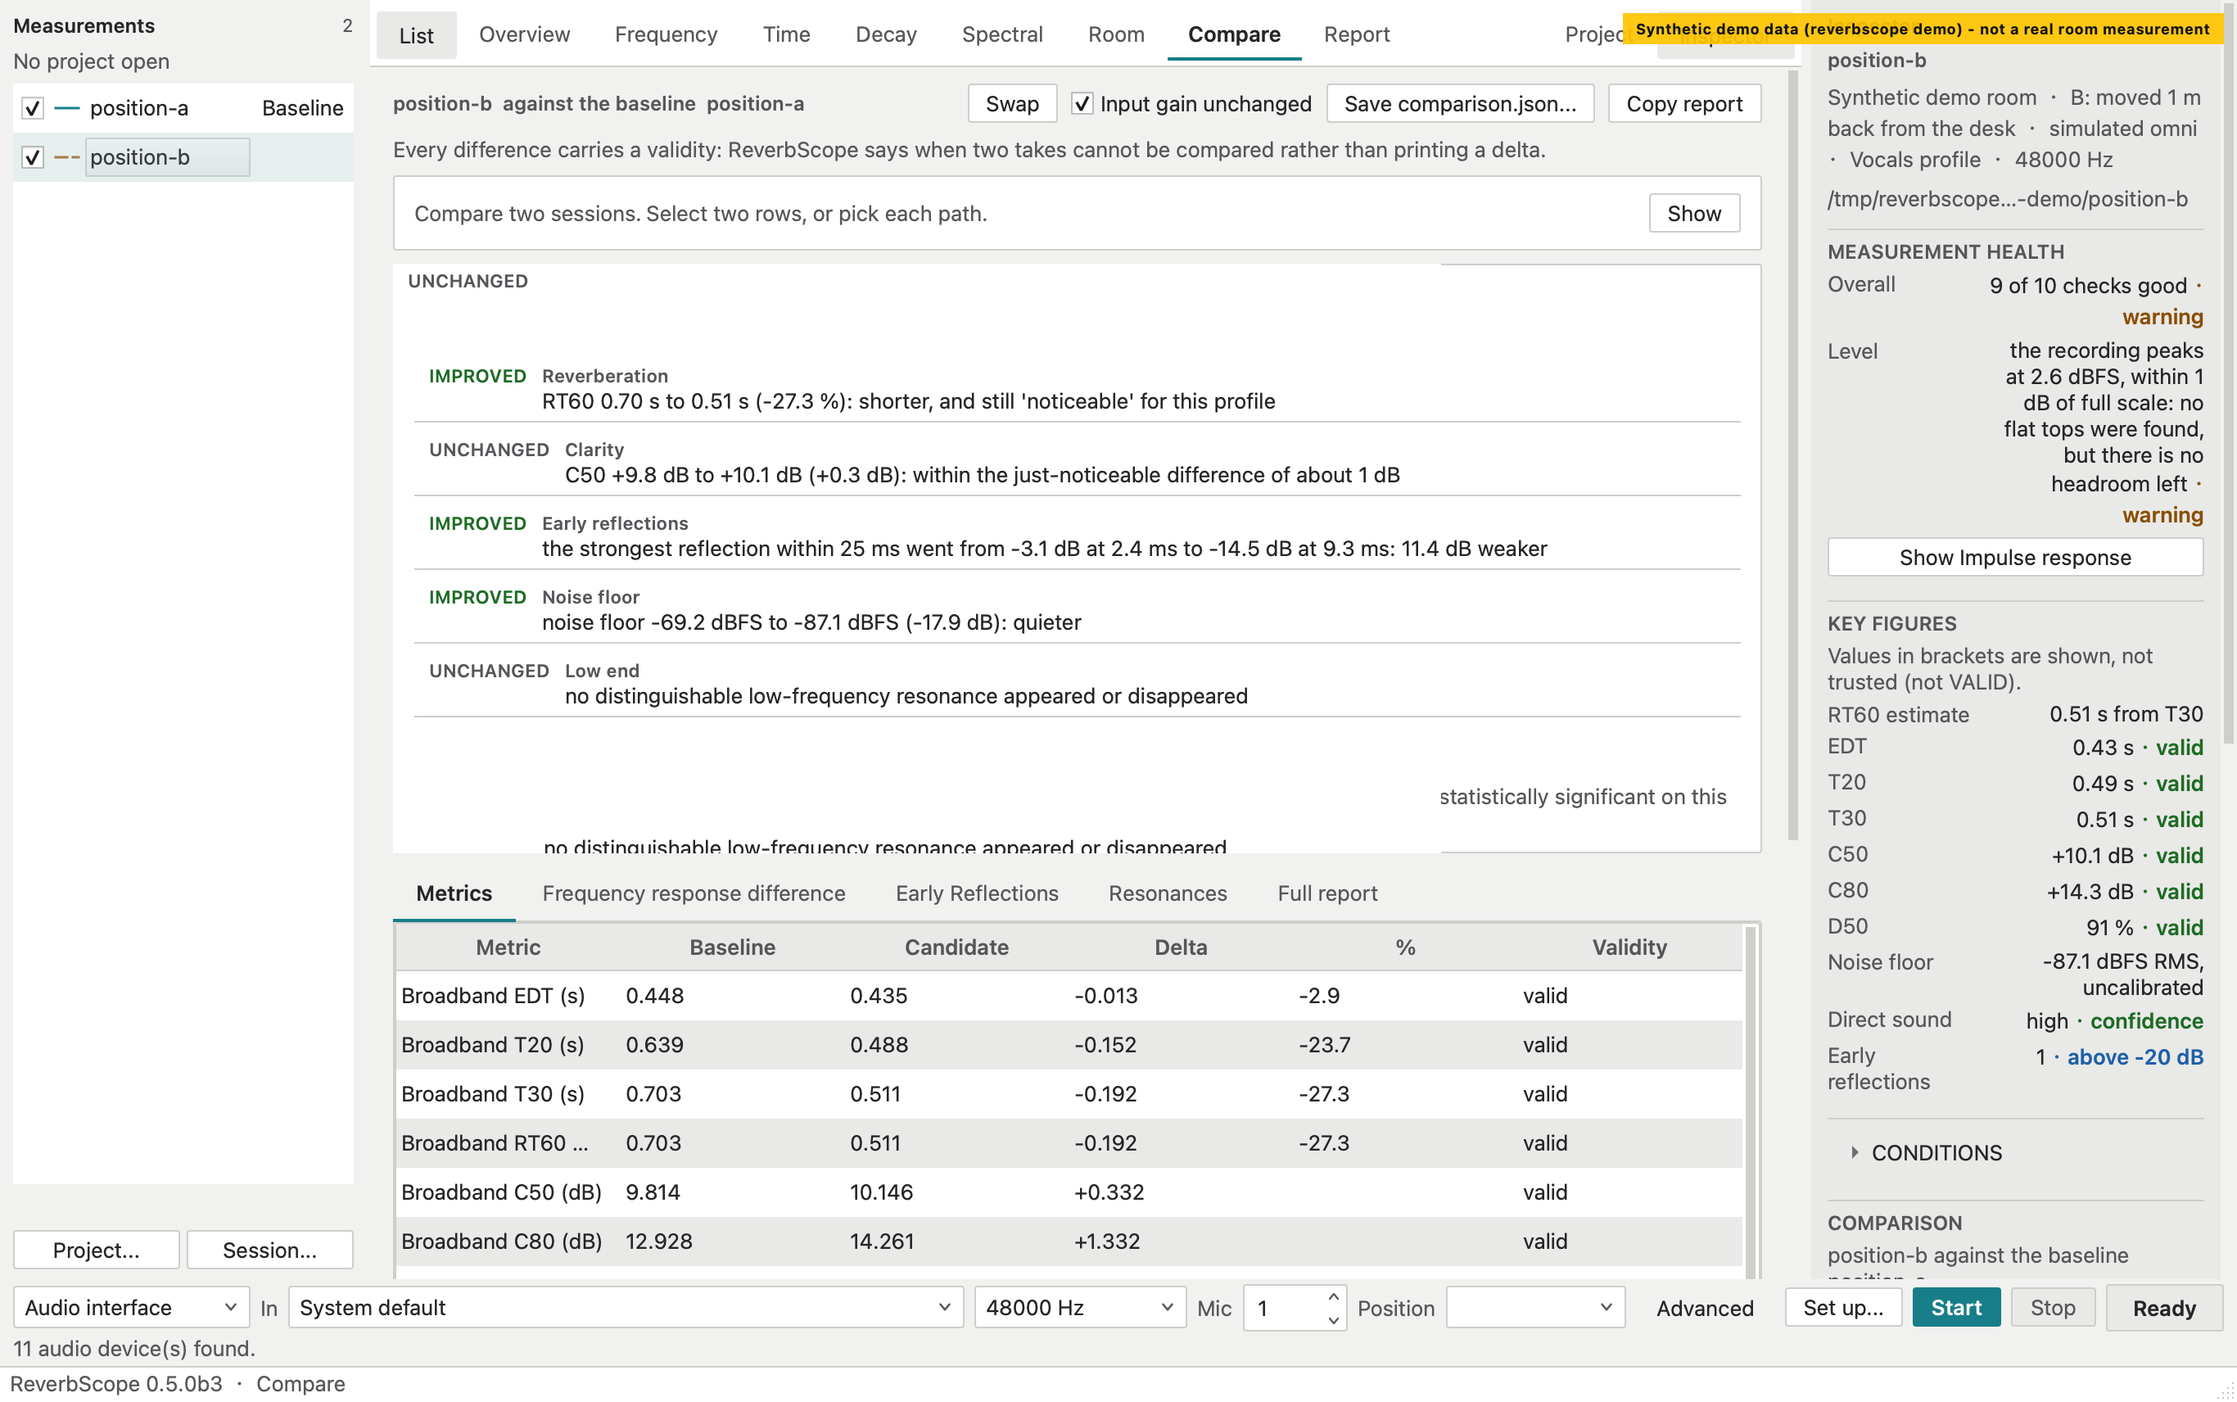
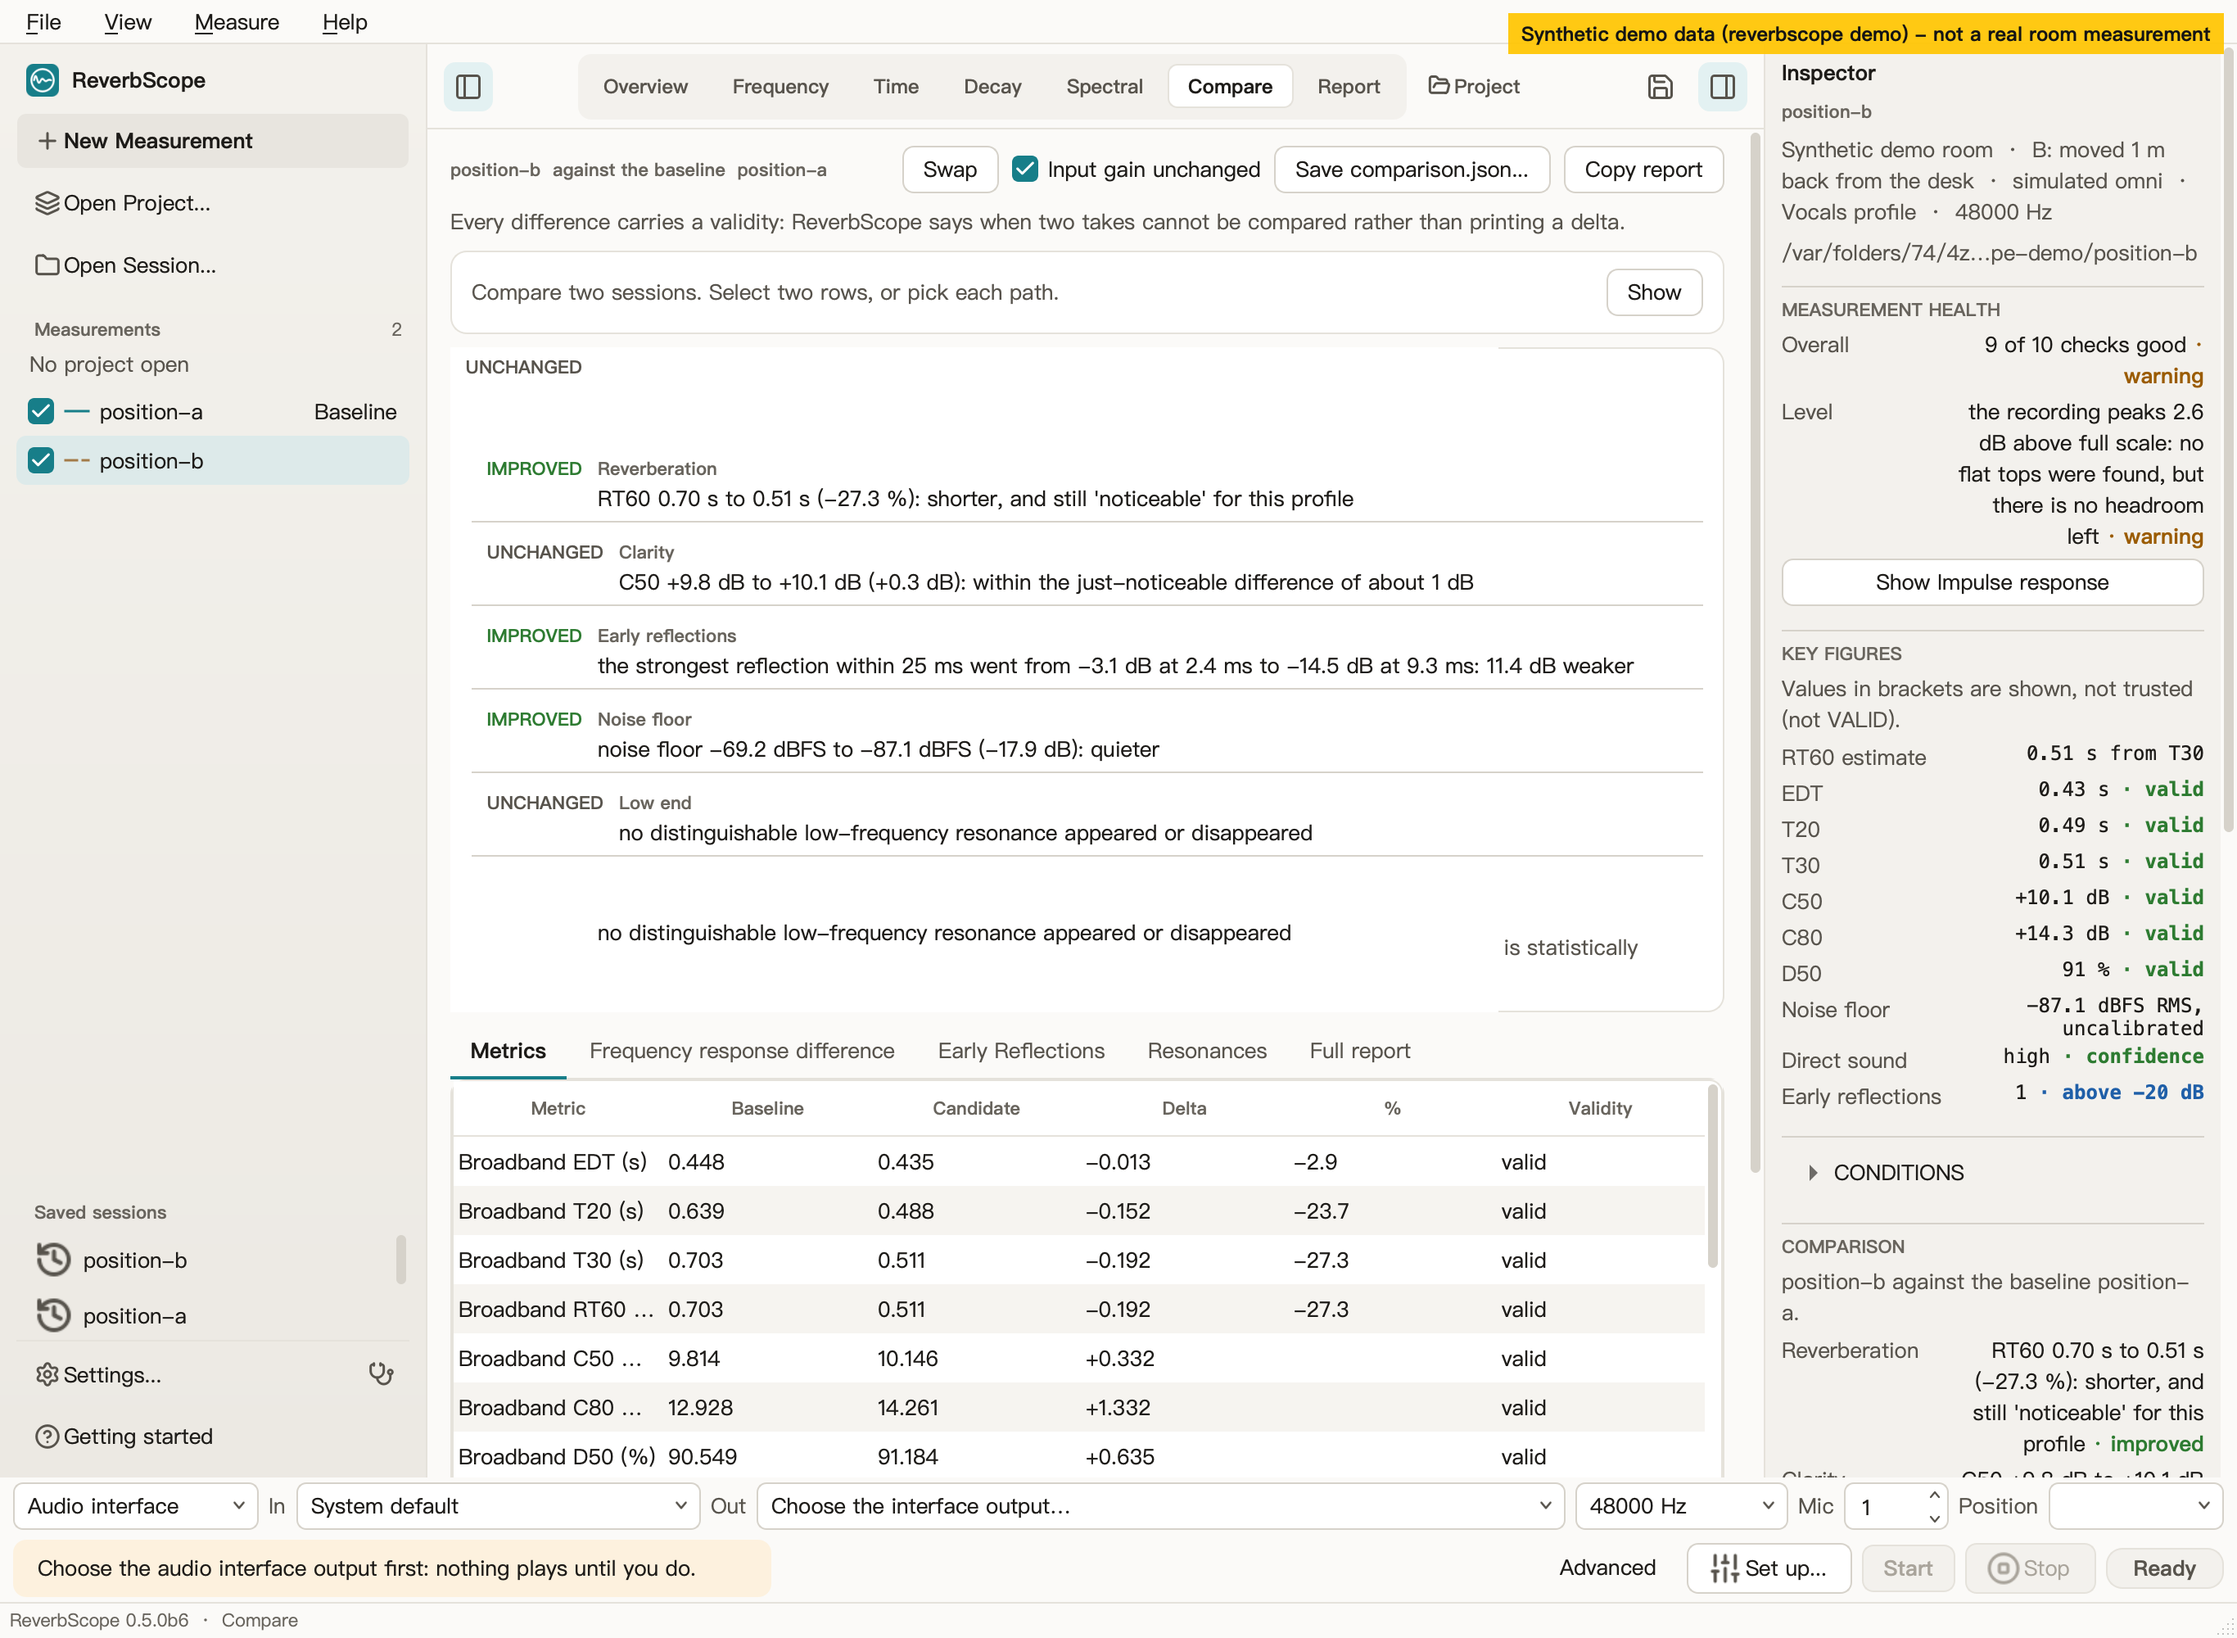
Refresh the READMEs and screenshots for 0.5.0b6
Retake the GUI screenshots from the light sidebar window, name the version
in the captions, add a "New in 0.5.0b6" list and a "Using the desktop app"
section, and rename the "Try it in 30 seconds" heading to "Try the demo":
the page cannot promise a time. The README structure test follows the new
heading.

Assisted-by: Claude Code

diff --git a/tests/unit/test_release_notes.py b/tests/unit/test_release_notes.py
@@ -223,7 +223,7 @@ def test_readme_shows_both_editions_before_anything_else(name: str) -> None:
     desktop = text.index("### 🖥 ")
     terminal = text.index("### ⌨ ")
     compare = text.index("### 该选哪个？" if zh else "### Which one?")
-    demo = text.index("## 30 秒体验" if zh else "## Try it in 30 seconds")
+    demo = text.index("## 先试试演示" if zh else "## Try the demo")
     first_section = text.index("\n## ")
     assert first_section < desktop < terminal < compare < demo
     # Every download of each edition is in its own table.

diff --git a/README.md b/README.md
@@ -19,9 +19,20 @@ unvalidated. [Help test it](#help-test-it).
 
 ![ReverbScope desktop workstation showing the overview of one microphone position: reverberation, background noise, early reflections and direct sound, with the measurement health and the inspector beside it (synthetic demo data)](docs/images/gui-results.png)
 
-<sub>The desktop workstation (`main`, 0.5.0b3) on the built-in simulated room.
-Synthetic demo data: no real room was measured.</sub>
+<sub>The desktop workstation of 0.5.0b6 (light theme) on the built-in simulated
+room. Synthetic demo data: no real room was measured.</sub>
 
+**New in 0.5.0b6** ([changelog](CHANGELOG.md)):
+
+* **A new look.** A light, warm window with a sidebar (New Measurement, Open
+  Project, Open Session, your measurements and saved sessions). The dark theme
+  stays.
+* **Safer playback.** The sweep plays only on an audio-interface output you
+  choose; Start stays off until you pick one.
+* **A leaner tool.** The 3D room view is gone: ReverbScope is a measurement
+  tool, and the placement figures now sit in the inspector.
+* **A truer level warning.** A recording that peaks above 0 dBFS now says how
+  far above full scale it is, in English and 简体中文, instead of "within 1 dB".
 
 > ⚠ **Unsigned builds.** ReverbScope is not notarized by Apple and carries no Windows Authenticode signature. Your system will warn on first launch — this is expected. See [Download](#download) for the manual allow steps. You do NOT need to disable Gatekeeper or SmartScreen.
 
@@ -36,8 +47,8 @@ published under the old **RoomScope** name. Use its `RoomScope` assets and
 launch are in the [public-beta guide](docs/PUBLIC_TESTING.md).
 
 **Not public yet:** the renamed `v0.5.0rc2` and `v0.5.0b3` builds are Draft
-releases that visitors cannot download. No stable 0.5.0, signed or notarized
-build, or PyPI package exists. The tables below name the renamed builds; they
+releases that visitors cannot download, and 0.5.0b6 has no Release yet. No
+stable 0.5.0, signed or notarized build, or PyPI package exists. The tables below name the renamed builds; they
 become download instructions when an accepted pre-release is published.
 
 ### 🖥 Desktop Edition
@@ -97,7 +108,7 @@ Not sure? Take the **Desktop Edition**: it contains the command line too.
 Install, checksums (`SHA256SUMS`), updating and uninstalling:
 **[Installation guide](docs/INSTALLATION.md)** ([简体中文](docs/INSTALLATION.zh-CN.md)).
 
-## Try it in 30 seconds
+## Try the demo
 
 No microphone and no audio interface needed; nothing is played. In a terminal:
 
@@ -123,6 +134,35 @@ changes system volume), then let ReverbScope play and record through your
 interface (**Standalone Mode**) or play its sweep in your DAW (**Universal DAW
 Mode**). The [user guide](docs/user-guide/en.md)
 ([简体中文](docs/user-guide/zh-CN.md)) explains every page.
+
+## Using the desktop app
+
+1. **Start.** Open ReverbScope (Desktop Edition, [Download](#download)). On the
+   first start the middle of the window offers three ways in: the demo, the
+   DAW route and the standalone route. **Help ▸ Getting started** brings that
+   card back.
+2. **See a result first.** Run `reverbscope demo` once (above), then choose
+   **Open Session…** in the sidebar and pick `position-a` in the demo folder.
+   Everything you see is the simulated room.
+3. **Measure.** Turn the monitors down, then choose **New Measurement**.
+   * *Audio interface:* pick the input, the output, the sample rate and the
+     microphone channel in the strip at the bottom, then **Start**. The sweep
+     plays only on an interface output you chose; until you do, Start stays
+     off and says why. Above −12 dBFS the level is confirmed again after any
+     level change.
+   * *DAW recording:* generate the test signal at your project's sample rate,
+     play and record it in your DAW, export the recorded track whole, then
+     **Choose Recording…** and **Choose Reference Sweep…** and analyze.
+4. **Read it.** The view bar opens Overview, Frequency, Time, Decay, Spectral
+   and Report. The inspector on the right opens with the measurement health:
+   what was found, what it affects and what to do next. A number marked not
+   valid is shown in brackets and is not to be trusted.
+5. **Compare and keep.** Right-click a measurement in the list to use it as the
+   baseline, then open **Compare**. **Project** collects the positions of one
+   room. A take that is not saved is marked *unsaved*, and ReverbScope asks
+   before it is dropped.
+
+The same steps from a terminal are in [Command line](#command-line).
 
 ## What it does
 
@@ -171,7 +211,7 @@ when another tool is the better choice, is in
 
 ## Status
 
-The version on `main` is **0.5.0b5**; `release/0.5.0` carries the release
+The version on `main` is **0.5.0b6**; `release/0.5.0` carries the release
 candidate. The analysis core, command line, desktop workstation, comparison,
 loopback, Simplified Chinese catalog, session bundles and both editions'
 bundles exist and are tested with synthetic data on Linux, macOS and Windows.
